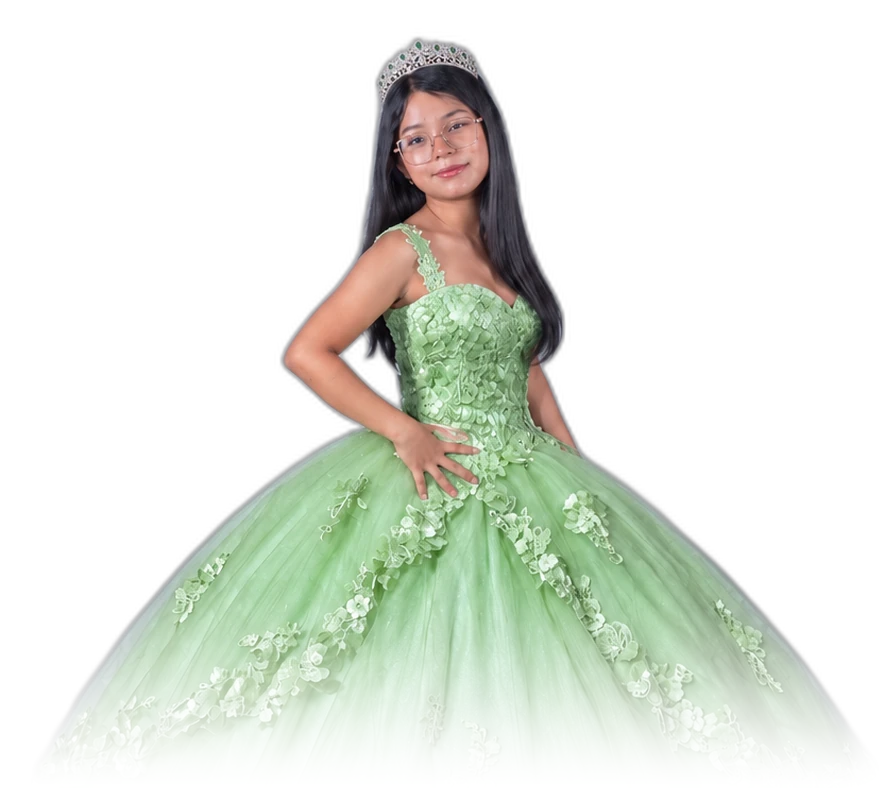
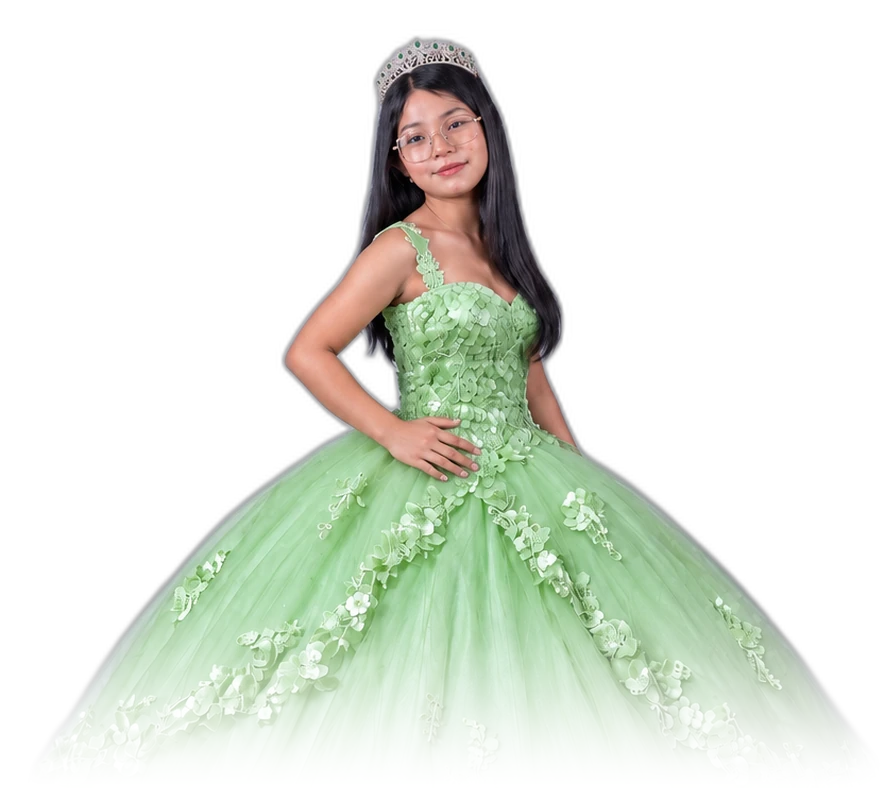
Add files via upload

diff --git a/daysqd.html b/daysqd.html
@@ -15,8 +15,8 @@
 <meta property="og:description" content="Sábado 28 de noviembre, 7:00 p. m. Balneario Mar y Cielo. Toca para ver la invitación y confirmar tu asistencia.">
 <meta property="og:url" content="https://jaiderdtt-tech.github.io/xv-estefania/daysqd.html">
 <meta property="og:site_name" content="XV años de Estefanía">
-<meta property="og:image" content="https://jaiderdtt-tech.github.io/xv-estefania/assets/og.jpg">
-<meta property="og:image:secure_url" content="https://jaiderdtt-tech.github.io/xv-estefania/assets/og.jpg">
+<meta property="og:image" content="https://jaiderdtt-tech.github.io/xv-estefania/assets/og-v2.jpg">
+<meta property="og:image:secure_url" content="https://jaiderdtt-tech.github.io/xv-estefania/assets/og-v2.jpg">
 <meta property="og:image:type" content="image/jpeg">
 <meta property="og:image:alt" content="Estefanía con su vestido verde y su corona">
 <link rel="canonical" href="https://jaiderdtt-tech.github.io/xv-estefania/daysqd.html">

diff --git a/puge5h.html b/puge5h.html
@@ -15,8 +15,8 @@
 <meta property="og:description" content="Sábado 28 de noviembre, 7:00 p. m. Balneario Mar y Cielo. Toca para ver la invitación y confirmar tu asistencia.">
 <meta property="og:url" content="https://jaiderdtt-tech.github.io/xv-estefania/puge5h.html">
 <meta property="og:site_name" content="XV años de Estefanía">
-<meta property="og:image" content="https://jaiderdtt-tech.github.io/xv-estefania/assets/og.jpg">
-<meta property="og:image:secure_url" content="https://jaiderdtt-tech.github.io/xv-estefania/assets/og.jpg">
+<meta property="og:image" content="https://jaiderdtt-tech.github.io/xv-estefania/assets/og-v2.jpg">
+<meta property="og:image:secure_url" content="https://jaiderdtt-tech.github.io/xv-estefania/assets/og-v2.jpg">
 <meta property="og:image:type" content="image/jpeg">
 <meta property="og:image:alt" content="Estefanía con su vestido verde y su corona">
 <link rel="canonical" href="https://jaiderdtt-tech.github.io/xv-estefania/puge5h.html">

diff --git a/wufhw8.html b/wufhw8.html
@@ -15,8 +15,8 @@
 <meta property="og:description" content="Sábado 28 de noviembre, 7:00 p. m. Balneario Mar y Cielo. Toca para ver la invitación y confirmar tu asistencia.">
 <meta property="og:url" content="https://jaiderdtt-tech.github.io/xv-estefania/wufhw8.html">
 <meta property="og:site_name" content="XV años de Estefanía">
-<meta property="og:image" content="https://jaiderdtt-tech.github.io/xv-estefania/assets/og.jpg">
-<meta property="og:image:secure_url" content="https://jaiderdtt-tech.github.io/xv-estefania/assets/og.jpg">
+<meta property="og:image" content="https://jaiderdtt-tech.github.io/xv-estefania/assets/og-v2.jpg">
+<meta property="og:image:secure_url" content="https://jaiderdtt-tech.github.io/xv-estefania/assets/og-v2.jpg">
 <meta property="og:image:type" content="image/jpeg">
 <meta property="og:image:alt" content="Estefanía con su vestido verde y su corona">
 <link rel="canonical" href="https://jaiderdtt-tech.github.io/xv-estefania/wufhw8.html">

diff --git a/yx6w7t.html b/yx6w7t.html
@@ -15,8 +15,8 @@
 <meta property="og:description" content="Sábado 28 de noviembre, 7:00 p. m. Balneario Mar y Cielo. Toca para ver la invitación y confirmar tu asistencia.">
 <meta property="og:url" content="https://jaiderdtt-tech.github.io/xv-estefania/yx6w7t.html">
 <meta property="og:site_name" content="XV años de Estefanía">
-<meta property="og:image" content="https://jaiderdtt-tech.github.io/xv-estefania/assets/og.jpg">
-<meta property="og:image:secure_url" content="https://jaiderdtt-tech.github.io/xv-estefania/assets/og.jpg">
+<meta property="og:image" content="https://jaiderdtt-tech.github.io/xv-estefania/assets/og-v2.jpg">
+<meta property="og:image:secure_url" content="https://jaiderdtt-tech.github.io/xv-estefania/assets/og-v2.jpg">
 <meta property="og:image:type" content="image/jpeg">
 <meta property="og:image:alt" content="Estefanía con su vestido verde y su corona">
 <link rel="canonical" href="https://jaiderdtt-tech.github.io/xv-estefania/yx6w7t.html">

diff --git a/index.html b/index.html
@@ -15,8 +15,8 @@
 <meta property="og:description" content="Sábado 28 de noviembre, 7:00 p. m. Balneario Mar y Cielo. Toca para ver la invitación y confirmar tu asistencia.">
 <meta property="og:url" content="https://jaiderdtt-tech.github.io/xv-estefania/">
 <meta property="og:site_name" content="XV años de Estefanía">
-<meta property="og:image" content="https://jaiderdtt-tech.github.io/xv-estefania/assets/og.jpg">
-<meta property="og:image:secure_url" content="https://jaiderdtt-tech.github.io/xv-estefania/assets/og.jpg">
+<meta property="og:image" content="https://jaiderdtt-tech.github.io/xv-estefania/assets/og-v2.jpg">
+<meta property="og:image:secure_url" content="https://jaiderdtt-tech.github.io/xv-estefania/assets/og-v2.jpg">
 <meta property="og:image:type" content="image/jpeg">
 <meta property="og:image:alt" content="Estefanía con su vestido verde y su corona">
 <link rel="canonical" href="https://jaiderdtt-tech.github.io/xv-estefania/">

diff --git a/README.md b/README.md
@@ -12,7 +12,7 @@ Invitación digital: portada con foto, cuenta regresiva, mapa, pase personalizad
 
 ## Vista previa al compartir por WhatsApp
 
-En `index.html`, busca la línea `og:image` y cambia `jaiderdtt-tech` por tu usuario de GitHub. Así, al pegar el enlace en WhatsApp aparece la foto con el nombre y la fecha (`assets/og.jpg`). WhatsApp guarda la vista previa en caché, así que pruébala después de hacer este cambio.
+En `index.html`, busca la línea `og:image` y cambia `jaiderdtt-tech` por tu usuario de GitHub. Así, al pegar el enlace en WhatsApp aparece la foto con el nombre y la fecha (`assets/og-v2.jpg`). WhatsApp guarda la vista previa en caché, así que pruébala después de hacer este cambio.
 
 ## Versiones por número de personas
 
